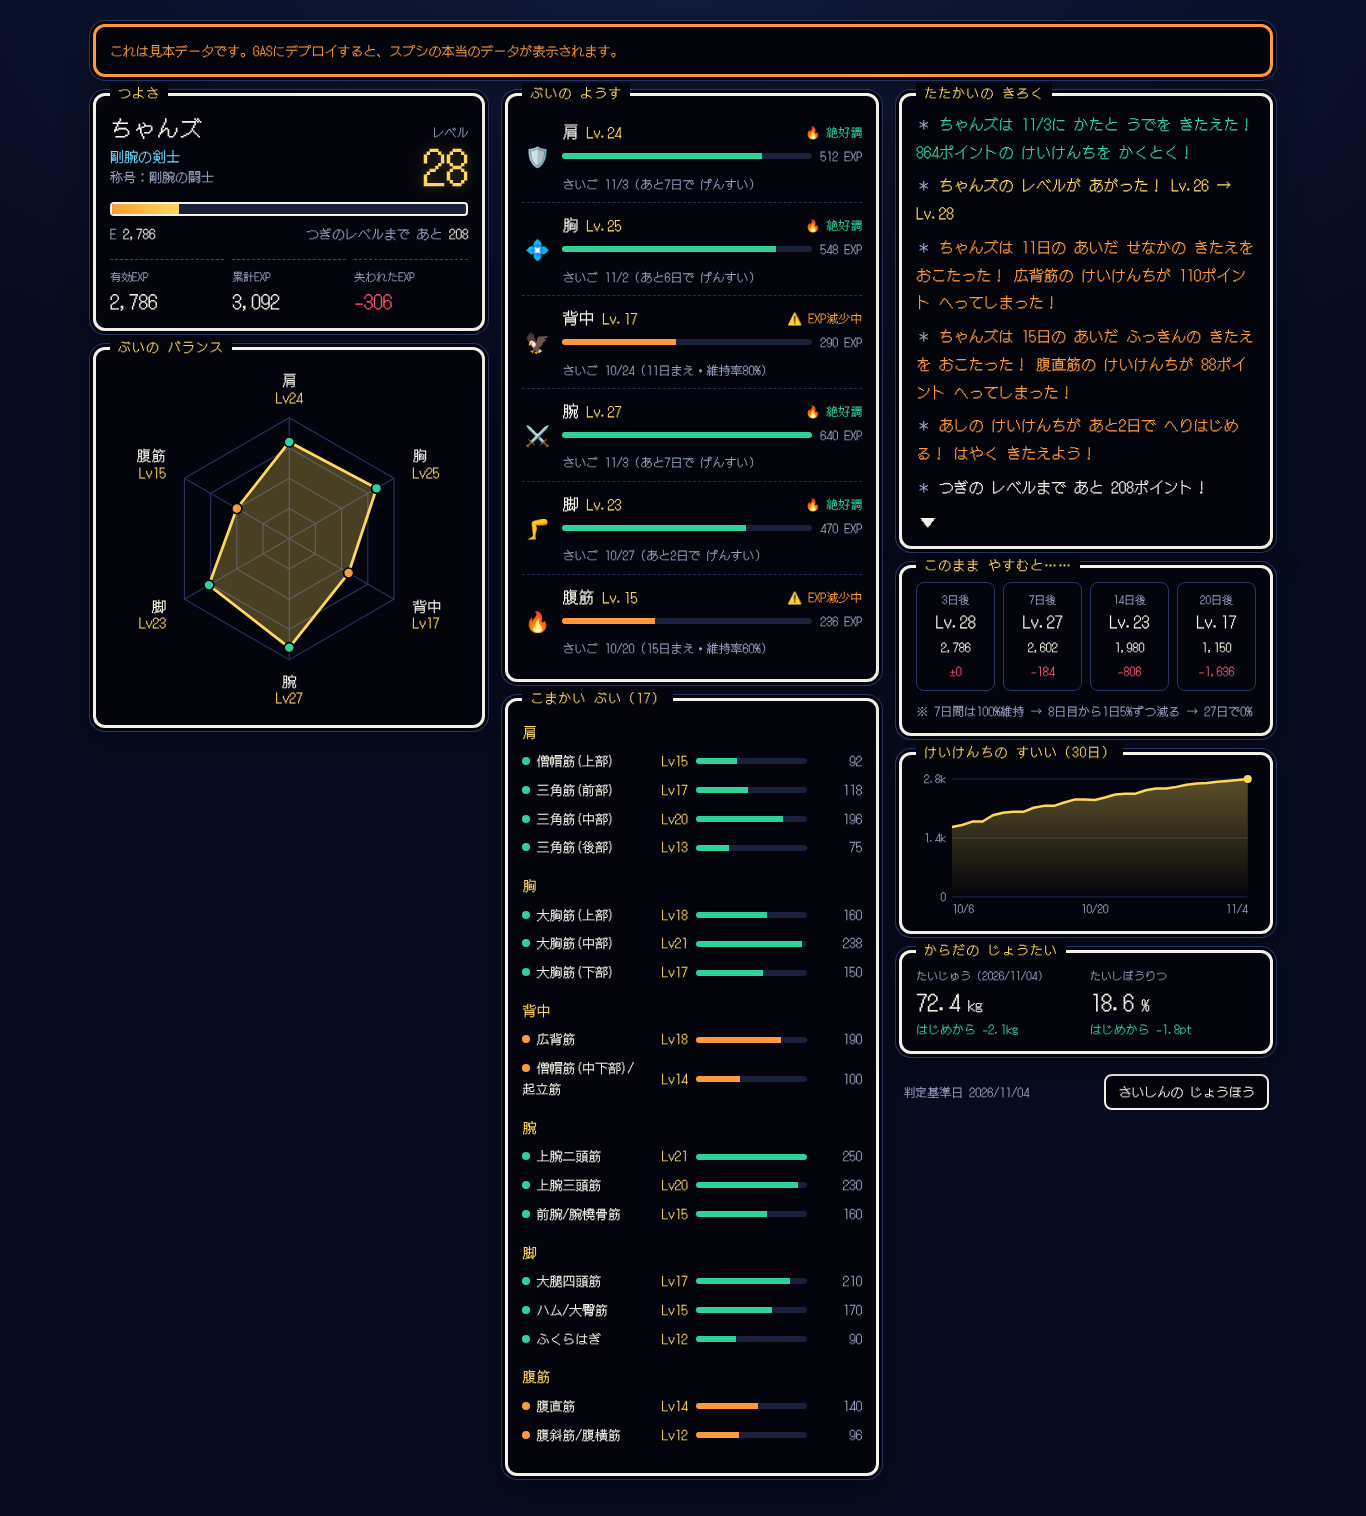
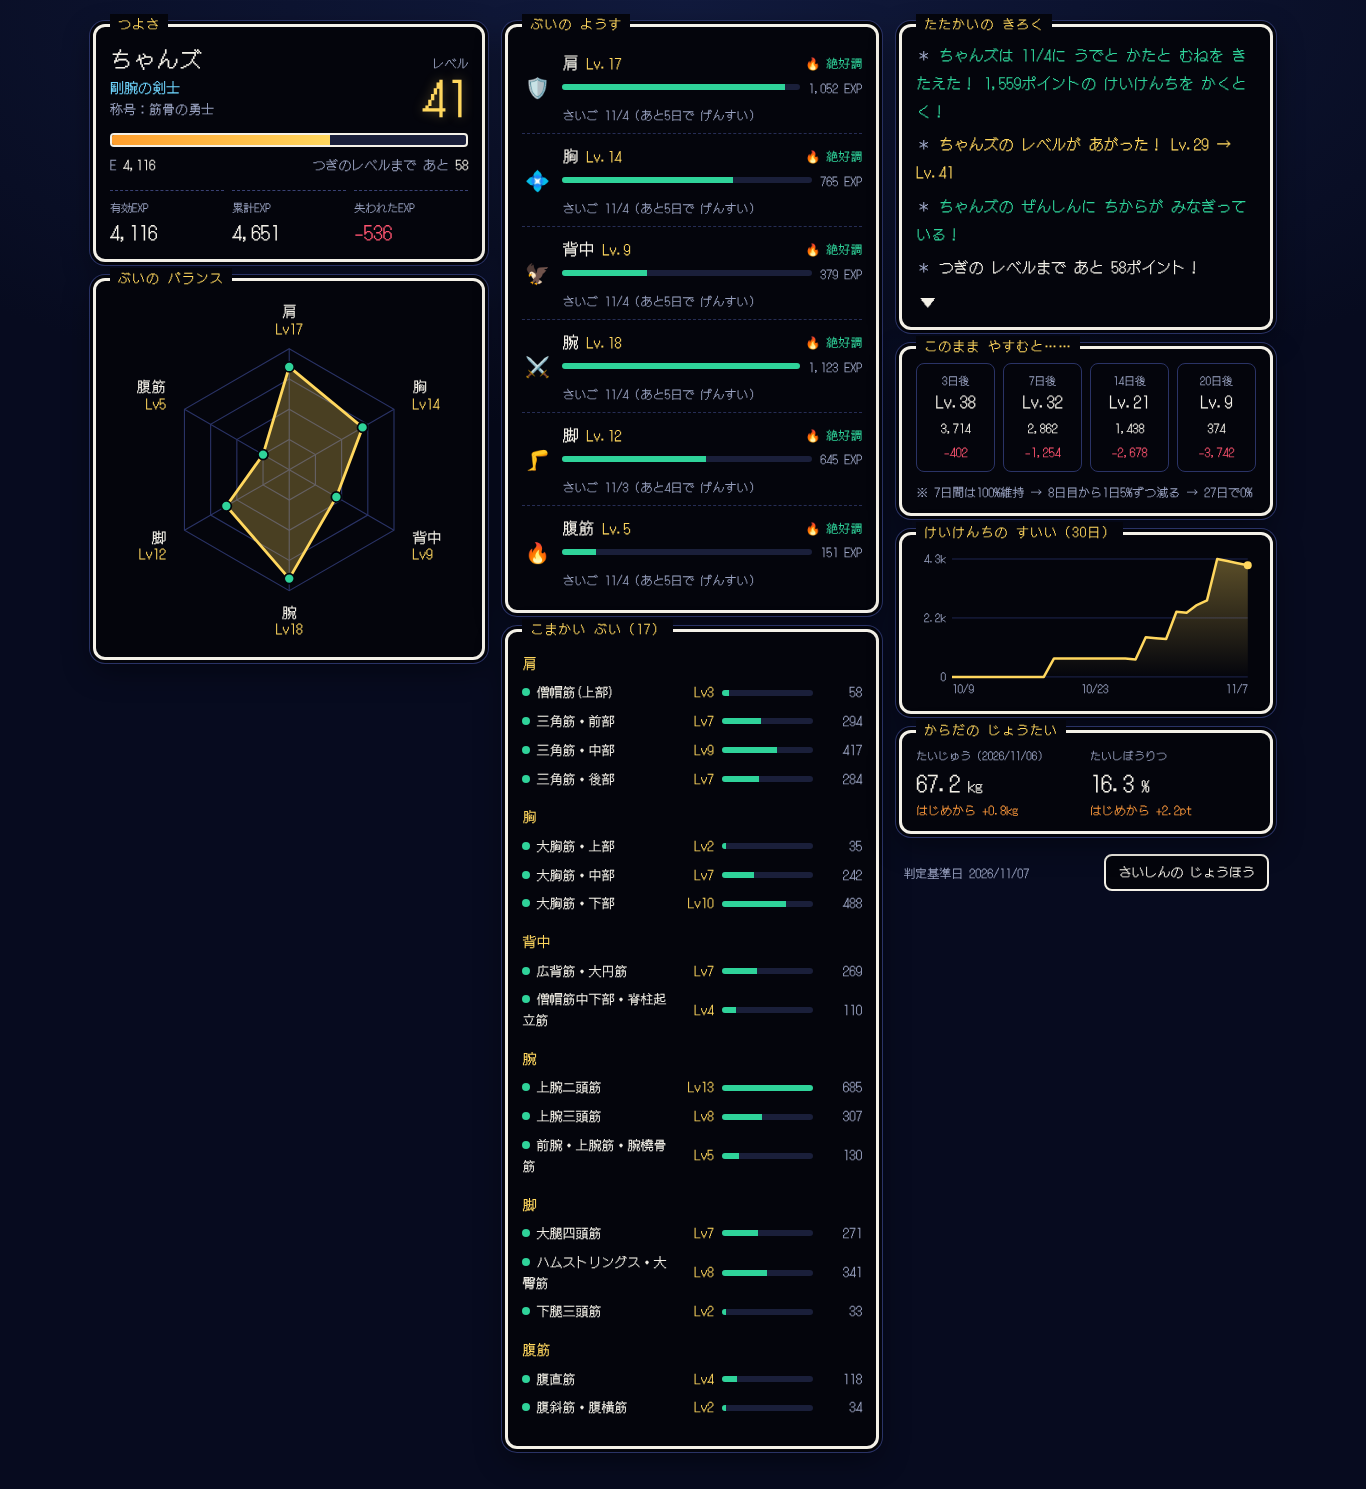
実データに合わせてレベル曲線と部位名を調整
- 本番スプシで有効EXP/累計EXP/6大部位/17部位の値が一致することを確認
- レベル曲線の係数を15.9にし、スプシのLv42(約4,200EXP)がそのまま残るようにした
- 大部位・17部位のLvも総合と同じ曲線にそろえた
- 17部位の表示名をマスタの見出し(三角筋・前部 など)から取るようにした
- 下腿三頭筋が上腕三頭筋と取り違えられないよう判定を厳密化

Claude-Session: https://claude.ai/code/session_01XSzEsUsUJJUAT4jRasyP5o

diff --git a/筋トレ冒険者ステータス/index.html b/筋トレ冒険者ステータス/index.html
@@ -99,7 +99,7 @@
   /* 17部位 */
   .group { margin-bottom: 12px; }
   .group h3 { font-size: 14px; font-weight: normal; color: var(--gold); margin: 6px 0 4px; }
-  .fine { display: grid; grid-template-columns: 9.5em 2.6em 1fr 3.6em; gap: 8px; align-items: center; font-size: 13px; padding: 4px 0; }
+  .fine { display: grid; grid-template-columns: 11.5em 2.6em 1fr 3.2em; gap: 8px; align-items: center; font-size: 13px; padding: 4px 0; }
   .fine .dot { display: inline-block; width: 8px; height: 8px; border-radius: 50%; margin-right: 6px; vertical-align: 1px; }
   .fine .l { color: var(--gold); text-align: right; }
   .fine .e { text-align: right; color: var(--muted); }

diff --git a/筋トレ冒険者ステータス/README.md b/筋トレ冒険者ステータス/README.md
@@ -25,18 +25,19 @@
 
 ### レベル曲線（ドラクエ風）
 
-Lv n に必要な有効EXP ＝ 19.5 ×（n−1）^1.5
+Lv n に必要な有効EXP ＝ 15.9 ×（n−1）^1.5
 
-Lvが上がるほど、次のLvまでに必要なEXPが増えます。いまのLv28前後（約2,800 EXP）はそのまま残るように係数を合わせています。
+Lvが上がるほど、次のLvまでに必要なEXPが増えます。スプシの「100 EXPごとに1Lv」で Lv42 だった約4,200 EXP が、そのまま Lv42 になるように係数を合わせています。
 
 | Lv | 必要EXP | 次のLvまで |
 |---|---|---|
-| 10 | 527 | 約90 |
-| 28 | 2,736 | 約150 |
-| 50 | 6,689 | 約200 |
-| 99 | 18,918 | （最大） |
+| 10 | 429 | 約70 |
+| 20 | 1,317 | 約100 |
+| 42 | 4,174 | 約150 |
+| 70 | 9,113 | 約200 |
+| 99 | 15,425 | （最大） |
 
-大部位Lvは総合の1/5、17部位Lvは1/12のEXPで同じLvになるようにしています。
+大部位・17部位のLvも同じ曲線です（同じEXPなら同じLv）。
 
 ### 称号と職業
 
